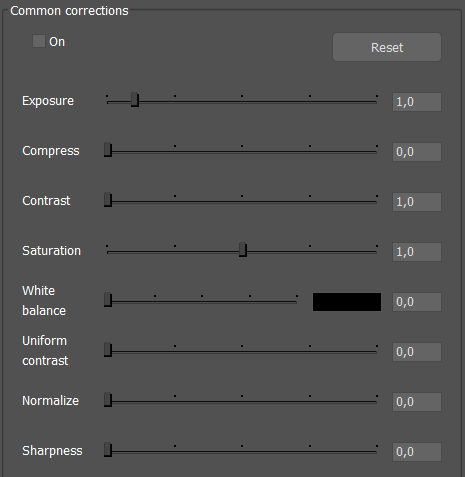
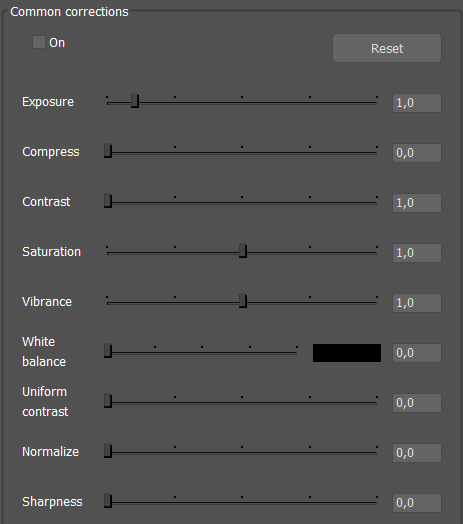
Update for release 2.6.

diff --git a/components.html b/components.html
@@ -64,7 +64,7 @@
             <div class="container">
                 <div id="doc-header" class="doc-header text-center">
                     <h1 class="doc-title"><span aria-hidden="true" class="icon icon_puzzle_alt"></span> Компоненты</h1>
-                    <div class="meta"><i class="far fa-clock"></i> Последнее изменение: 04 мая 2021</div>
+                    <div class="meta"><i class="far fa-clock"></i> Последнее изменение: 04 октября 2022</div>
                 </div><!--//doc-header-->
                 <div class="doc-body row" >
                     <div class="doc-content col-md-9 col-12 order-1">
@@ -84,22 +84,33 @@
 							
                             
                             
-							<section id="NewFutures" class="doc-section">
-								<h2 class="section-title">Новое в Hydra 2.5</h2>								                                  
-								<h6></h6>
-								<ul class="list">
-									<li>Плагин для 3ds max 2021.</li> 
-                                    <li>Анизотропные BRDF: Beckmann и TRGGX.</li>
-                                    <li>Multiscattering GGX (отражения и преломления).</li>
-                                    <li>Falloff.</li>
-                                    <li>Blended box (triplanar mapping).</li>
-                                    <li>Ambient occlusion (AO, dirt).</li>
-                                    <li>DOF для IBPT и MMLT (пока ещё есть небольшие артефакты).</li>
-                                    <li>Кламп для уменьшения шума.</li>
-                                    <li>Поддержка отключения фильтрации текстур (важно для текстур вращения анизотропии).</li>
-									<li>Исправления багов. Полный список в “c:\[Hydra]\Changes.txt”.</li>
-        						</ul>
-							</section><!--//NewFutures doc-section--> 
+              <section id="NewFutures" class="doc-section">
+                <h2 class="section-title">Новое в Hydra 2.6</h2>
+                <h6>Основные изменения</h6>
+                <ul class="list">
+                  <li>Плагин для 3ds max 2022.</li>
+                  <li>Нейросетевой денойзинг Intel® Open Image Denoise.</li>
+                  <li>Вибранс в пост процессе.</li>
+                </ul>
+                <h6>Улучшения</h6>
+                <ul class="list">
+                  <li>Contrast и Uniform contrast в более правильном цветовом пространстве.</li>
+                  <li>Uniform contrast действует более мягко, предотвращая образование полос.</li>
+                  <li>Мультисэмплинг для рендер элементов: color и normal пассы.</li>
+                  <li>Normal пасс учитывает бамп.</li>
+                </ul>
+                <h6>Исправления</h6>
+                <ul class="list">
+                  <li>Неправильная блокировка анизотропии.</li>
+                  <li>Неправильный цвет рендер элемента: normal пасс.</li>
+                  <li>Сплайны всегда отображаются.</li>
+                  <li>Иногда неправильное отображение нормалей.</li>
+                </ul>
+                <h6>Ограничения</h6>
+                <ul class="list">
+                  <li>Поддержка 3ds max 2017-2019 была прекращена.</li>                  
+                </ul>
+              </section><!--//NewFutures doc-section--> 
                             
                             
                             
@@ -248,7 +259,7 @@
                                         
                                     <!--/// Anisotropy ///-->									
 									<ul class="list">
-										<li><strong>Anisotropy </strong> <span class="badge badge-success">Новое в 2.5</span></li>
+										<li><strong>Anisotropy </strong></li>
 
 									   <p>Параметр определяет силу анизотропных, направленных отражений, подобных шлифованному металлу, когда структура шероховатостей имеет оформленное направление. В настоящее время доступно только для Beckmann и TRGGX моделей.</p> 
 									</ul>		
@@ -256,7 +267,7 @@
                                         
                                     <!--/// Rotation  ///-->									
 									<ul class="list">
-								        <li><strong>Rotation </strong><span class="badge badge-success">Новое в 2.5</span></li>
+								        <li><strong>Rotation </strong></li>
 
 								        <p>Параметр в градусах, определяющий направление анизотропных отражений.</p> 
                                             
@@ -281,9 +292,9 @@
                                         <ul>
                                             <li>Phong - простая универсальная модель.</li>
                                             <li>Torr-Sparr - микрофасетная модель Torrance-Sparrow.</li>
-                                            <li>Beckmann - анизотропная микрофасетная модель. <span class="badge badge-success">Новое в 2.5</span></li>
-                                            <li>GGX - самая распространённая микрофасетная модель, в настоящее время считающаяся стандартом индустрии. <span class="badge badge-success">Новое в 2.5</span></li>
-                                            <li>TRGGX - анизотропная микрофасетная модель. <span class="badge badge-success">Новое в 2.5</span></li>                                        
+                                            <li>Beckmann - анизотропная микрофасетная модель.</li>
+                                            <li>GGX - самая распространённая микрофасетная модель, в настоящее время считающаяся стандартом индустрии.</li>
+                                            <li>TRGGX - анизотропная микрофасетная модель.</li>                                        
                                         </ul>                                        
                                         
                                         <p>Микрофасетные моделирует моделируют более реалистичное поведение отражений. Все микрофасетные модели в исходном виде не учитывают переотражение между микрофасетками, поэтому с уменьшением glossiness (увеличением шероховатости) они теряют энергию и не проходят "тест печи", другими словами они темнеют больше чем нужно.</p>
@@ -397,7 +408,7 @@
                                         <p>Из-за того что при преломлении луч проходит через поверхность дважды, при тех же значениях glossiness
                                         преломления будут размываться намного сильнее отражений.<p>
                                         
-                                        <p>Начиная с версии 2.5 для преломлений используется multiscattering GGX. <span class="badge badge-success">Новое в 2.5</span></p>
+                                        <p>Начиная с версии 2.5 для преломлений используется multiscattering GGX.</p>
 									</ul>
 									
 									
@@ -745,7 +756,7 @@
                                     <!-- //////////////// Falloff //////////////-->
                                     <!-- ////////////////////////////////////////////////////////////-->
                                     <div id="Falloff" class="section-block">
-                                        <h4 class="block-title">Falloff <span class="badge badge-success">Новое в 2.5</span></h4>
+                                        <h4 class="block-title">Falloff</h4>
                                         
                                         <p>Hydra render возобновляет поддержку стандартного фаллоффа 3ds max, но в связи с новыми архитектурными решениями ядра, разработка фаллоффа только начата и пока работает только смена цвета. Falloff type временно используется всегда по Френелю с IOR равным 1.5.</p>     
                                         <p>Так же фаллофф можно использовать в качестве маски в стандартном бленд материале, для смешивания двух материалов, например для создания дополнительного покрытия лаком (coating). Для этого базовый материал остаётся как есть, а материал покрытия должен быть чистым зеркалом, с выключенным Френелем. В этом случае он “ляжет” поверх базового материала по Френелю, что будет физ.корректно.</p>
@@ -783,7 +794,7 @@
                                     <!-- //////////////// HydraAO //////////////-->
                                     <!-- ////////////////////////////////////////////////////////////-->
                                     <div id="HydraAO" class="section-block">
-                                        <h4 class="block-title">HydraAO <span class="badge badge-success">Новое в 2.5</span></h4>
+                                        <h4 class="block-title">HydraAO</h4>
                                         
                                         <p class="text-center"><img class="img-fluid" src="assets/images/Components/HydraAO.png" alt="HydraAO"></p> 
                                         
@@ -831,7 +842,7 @@
                                     <!-- //////////////// HydraBlendedBox //////////////-->
                                     <!-- ////////////////////////////////////////////////////////////-->
                                     <div id="HydraBlendedBox" class="section-block">
-                                        <h4 class="block-title">HydraBlendedBox <span class="badge badge-success">Новое в 2.5</span></h4>
+                                        <h4 class="block-title">HydraBlendedBox</h4>
                                         
                                         <p class="text-center"><img class="img-fluid" src="assets/images/Components/HydraBlendedBox_GUI.png" alt="HydraBlendedBox_GUI"></p>
                                         
@@ -1194,7 +1205,7 @@
                                             <p>Методы QMC это путь в сторону де рандомизации. Они имеют более равномерное распределение в пространстве, чем обычные случайные числа (рандомные числа), ускоряя просчёт. Но из-за этого местами может проявляться некоторая периодичность в виде лесенок, шашечек и других визуально нежелательных структур. Их появление предсказать очень сложно, т.к. оно зависит от большого числа переменных: ракурс, источники света, материалы и их взаимное расположение в пространстве и так далее. Как правило, если во время просчёта эти структуры слишком медленно пропадают, то скорее всего они не исчезнут за приемлемое время и эту настройку лучше отключить для этого кадра. Также, если вы рендерите очень долго, а шум в некоторых местах всё равно остался, попробуйте отключить эти опции.</p>
                                             
                                             <li><strong>Env. clamp</strong> - максимальное значение яркости энвайронмента. Временно недоступно.</li>
-                                            <li><strong>BSDF clamp </strong><span class="badge badge-success">Новое в 2.5</span> - максимальное значение яркости отражённых лучей от материалов. Параметр был временно недоступен и возвращен в несколько переработанном виде.</li>
+                                            <li><strong>BSDF clamp </strong> - максимальное значение яркости отражённых лучей от материалов. Параметр был временно недоступен и возвращен в несколько переработанном виде.</li>
                                             
                                             <p>Оба вида клампа используются для борьбы с ярким точечным шумом. Чем меньше значение, тем меньше шума.</p>
                                         </ul>          
@@ -1272,8 +1283,34 @@
                                     <!-- //////////////// Denoising //////////////-->
                                     <!-- ////////////////////////////////////////////////////////////-->
                                     <div id="Denoising" class="section-block">
-                                        <h4 class="block-title">Denoising</h4>                    
-                                        <p>Начиная с преальфы 2.5.2 используется нейросетевой денойз Intel® Open Image Denoise.</p>          
+                                      <h4 class="block-title">Denoising <span class="badge badge-success">Новое в 2.6</span></h4>
+
+                                      <p>Нейросетевой денойз Intel® Open Image Denoise позволяет качественно удалять шум и точечные всплески яркости.</p>
+
+                                      <p class="text-center"><img class="img-fluid" src="assets/images/Components/PP_Denoise_GUI.png" alt="PP_Denoise_GUI"></p>
+
+                                      <ul class="list">
+                                        <li><strong>On</strong> - включает денойзинг. Можно включать до или после рендеринга.</li>
+                                        <li><strong>Color</strong> - включает color пасс для улучшения качества диффузных текстур.</li>
+                                        <li><strong>Normals</strong> - включает normal пасс для улучшения качества поверхностей.</li>
+
+                                        <p><strong>Оба пасса необходимо включать до начала визуализации.</strong></p>
+                                        
+                                        <div class="callout-block callout-warning">
+                                          <div class="icon-holder"><i class="fas fa-tools"></i></div><!--//icon-holder-->
+                                          <div class="content">
+                                            <h4 class="callout-title">Ограничение:</h4>
+                                            <p>
+                                              При использовании глубины резкости камеры (DOF) рекомендуется отключать эти пассы, т.к. они не размываются по глубине, и остаются всегда чёткими.
+                                              В результате денойз неправильно обрабатывает размытые области.
+                                            </p>
+                                          </div><!--//content-->
+                                        </div><!--//callout-block-->
+
+                                        <li><strong>Apply</strong> - Величина фильтрации.</li>
+
+                                      </ul>
+
                                     </div><!--//Denoising section-block-->
                                     
                                     
@@ -1287,19 +1324,20 @@
                                         <p class="text-center"><img class="img-fluid" src="assets/images/Components/PP_Common_GUI.png" alt="PP_Common_GUI"></p>     
                                         
                                         <ul class="list">
-                                            <li><strong>Exposure</strong> - яркость изображения, экспозиция.</li>
-                                            <li><strong>Compress</strong> - сжатие высокого динамического диапазона (hdr) в низкий динамический диапазон (ldr), для полного охвата цветов монитором. Моделируются некоторые свойства человеческого зрения.</li>
-                                            <li><strong>Contrast</strong> - увеличение разницы между яркими и тёмными тонами изображения.</li>
-                                            <li><strong>Saturation</strong> - изменение насыщенности цвета.</li>
-                                            <li><strong>White balance</strong> - автоматическая коррекция тональности изображения. Моделируются биологические механизмы цветопостоянства, по стандарту CIECAM02. Имеется возможность ручного выбора точки белого во фреймбуфере. Чёрный цвет включает автоматическое определение точки белого, что не всегда корректно работает.</li>
-                                            <li><strong>Uniform contrast</strong> - нелинейное перераспределение яркости, для достижения равномерного контраста изображения. В изображениях с сильными разрывами в яркости, может приводить к заметным искажениям.</li>                     
-                                            
-                                            <p class="text-center"><img class="img-fluid" src="assets/images/Components/UniformContrast.png" alt="UniformContrast"></p>
-                                            <p class="text-center">Слева оригинал, справа с фильтром uniform contrast</p>
-                                            
-                                            <li><strong>Normalize</strong> - линейное растягивание диапазона яркостей с отсечкой точечных выбросов, для увеличения контраста изображения. В большинстве случаев рекомендуется ставить на максимум, чтобы заполнить весь LDR диапазон.</li>
-                                            <p>Не рекомендуется для анимации или если нужно точно сравнить несколько кадров. Из-за адаптивной природы алгоритма кадры могут иметь немного разную яркость.</p>
-                                            <li><strong>Sharpness</strong> - увеличение резкости изображения.</li>
+                                          <li><strong>Exposure</strong> - яркость изображения, экспозиция.</li>
+                                          <li><strong>Compress</strong> - сжатие высокого динамического диапазона (hdr) в низкий динамический диапазон (ldr), для полного охвата цветов монитором. Моделируются некоторые свойства человеческого зрения.</li>
+                                          <li><strong>Contrast</strong> - увеличение разницы между яркими и тёмными тонами изображения.</li>
+                                          <li><strong>Saturation</strong> - изменение насыщенности цвета.</li>
+                                          <li><strong>Vibrance</strong> - изменение насыщенности цвета только со слабой насыщенностью. Позволяет избежать перенасыщения и искажения уже насыщенных цветов. <span class="badge badge-success">Новое в 2.6</span></li>
+                                          <li><strong>White balance</strong> - автоматическая коррекция тональности изображения. Моделируются биологические механизмы цветопостоянства, по стандарту CIECAM02. Имеется возможность ручного выбора точки белого во фреймбуфере. Чёрный цвет включает автоматическое определение точки белого, что не всегда корректно работает.</li>
+                                          <li><strong>Uniform contrast</strong> - нелинейное перераспределение яркости, для достижения равномерного контраста изображения. В изображениях с сильными разрывами в яркости, может приводить к заметным искажениям.</li>
+
+                                          <p class="text-center"><img class="img-fluid" src="assets/images/Components/UniformContrast.png" alt="UniformContrast"></p>
+                                          <p class="text-center">Слева оригинал, справа с фильтром uniform contrast</p>
+
+                                          <li><strong>Normalize</strong> - линейное растягивание диапазона яркостей с отсечкой точечных выбросов, для увеличения контраста изображения. В большинстве случаев рекомендуется ставить на максимум, чтобы заполнить весь LDR диапазон.</li>
+                                          <p>Не рекомендуется для анимации или если нужно точно сравнить несколько кадров. Из-за адаптивной природы алгоритма кадры могут иметь немного разную яркость.</p>
+                                          <li><strong>Sharpness</strong> - увеличение резкости изображения.</li>
                                         </ul>                                        
                                     </div><!--//CommonCorrections section-block-->
                                     
@@ -1406,7 +1444,7 @@
                             <nav id="doc-menu" class="nav doc-menu">
 <!--                        <nav id="doc-menu" class="nav doc-menu flex-column">-->
 								<a class="nav-link scrollto" href="#AboutHydra">О Hydra renderer</a>
-								<a class="nav-link scrollto" href="#NewFutures">Новое в версии 2.5</a>                                
+								<a class="nav-link scrollto" href="#NewFutures">Новое в версии 2.6</a>                                
                                 <a class="nav-link scrollto" href="#HydraIn3dsMax">Hydra в Autodesk 3ds Max</a>
                                     <nav class="doc-sub-menu nav flex-column">
                                         <a class="nav-link scrollto" href="#Materials">Материалы</a>
@@ -1429,10 +1467,10 @@
                                             </nav>
                                         <a class="nav-link scrollto" href="#Textures">Текстуры</a>
                                             <nav class="doc-sub2-menu nav flex-column">
-                                                <a class="nav-link scrollto" href="#Falloff">Falloff <span class="badge badge-success">Новое в 2.5</span></a>
-                                                <a class="nav-link scrollto" href="#HydraAO">HydraAO <span class="badge badge-success">Новое в 2.5</span></a>
+                                                <a class="nav-link scrollto" href="#Falloff">Falloff</a>
+                                                <a class="nav-link scrollto" href="#HydraAO">HydraAO</a>
                                                 <a class="nav-link scrollto" href="#HydraBackEnvir">HydraBack/Envir</a>
-                                                <a class="nav-link scrollto" href="#HydraBlendedBox">HydraBlendedBox <span class="badge badge-success">Новое в 2.5</span></a>
+                                                <a class="nav-link scrollto" href="#HydraBlendedBox">HydraBlendedBox</a>
                                             </nav>
                                         <a class="nav-link scrollto" href="#Lights">Источники света</a>
                                             <nav class="doc-sub2-menu nav flex-column">
@@ -1456,8 +1494,8 @@
                                         
                                         <a class="nav-link scrollto" href="#PostProc">Post processing</a>
                                             <nav class="doc-sub2-menu nav flex-column">
-                                                <a class="nav-link scrollto" href="#Denoising">Denoising</a>
-                                                <a class="nav-link scrollto" href="#CommonCorrections">Common corrections</a>
+                                                <a class="nav-link scrollto" href="#Denoising">Denoising <span class="badge badge-success">Новое в 2.6</span></a>
+                                                <a class="nav-link scrollto" href="#CommonCorrections">Common corrections <span class="badge badge-success">Новое в 2.6</span></a>
                                                 <a class="nav-link scrollto" href="#OpticsEffects">Optics effects</a>                                                
                                             </nav>
                                         
@@ -1480,7 +1518,7 @@
     <footer id="footer" class="footer text-center">
         <div class="container">
             <!--/* This template is released under the Creative Commons Attribution 3.0 License. Please keep the attribution link below when using for your own project. Thank you for your support. :) If you'd like to use the template without the attribution, you can buy the commercial license via our website: themes.3rdwavemedia.com */-->
-            <small class="copyright">© 2021 Ray Tracing Systems. All rights reserved. <!--<i class="fas fa-heart"></i> <a href="http://www.raytracing.ru/" target="_blank">Hydra renderer</a>--></small>
+            <small class="copyright">© 2022 Ray Tracing Systems. All rights reserved. <!--<i class="fas fa-heart"></i> <a href="http://www.raytracing.ru/" target="_blank">Hydra renderer</a>--></small>
         </div><!--//container-->
     </footer><!--//footer-->
     
